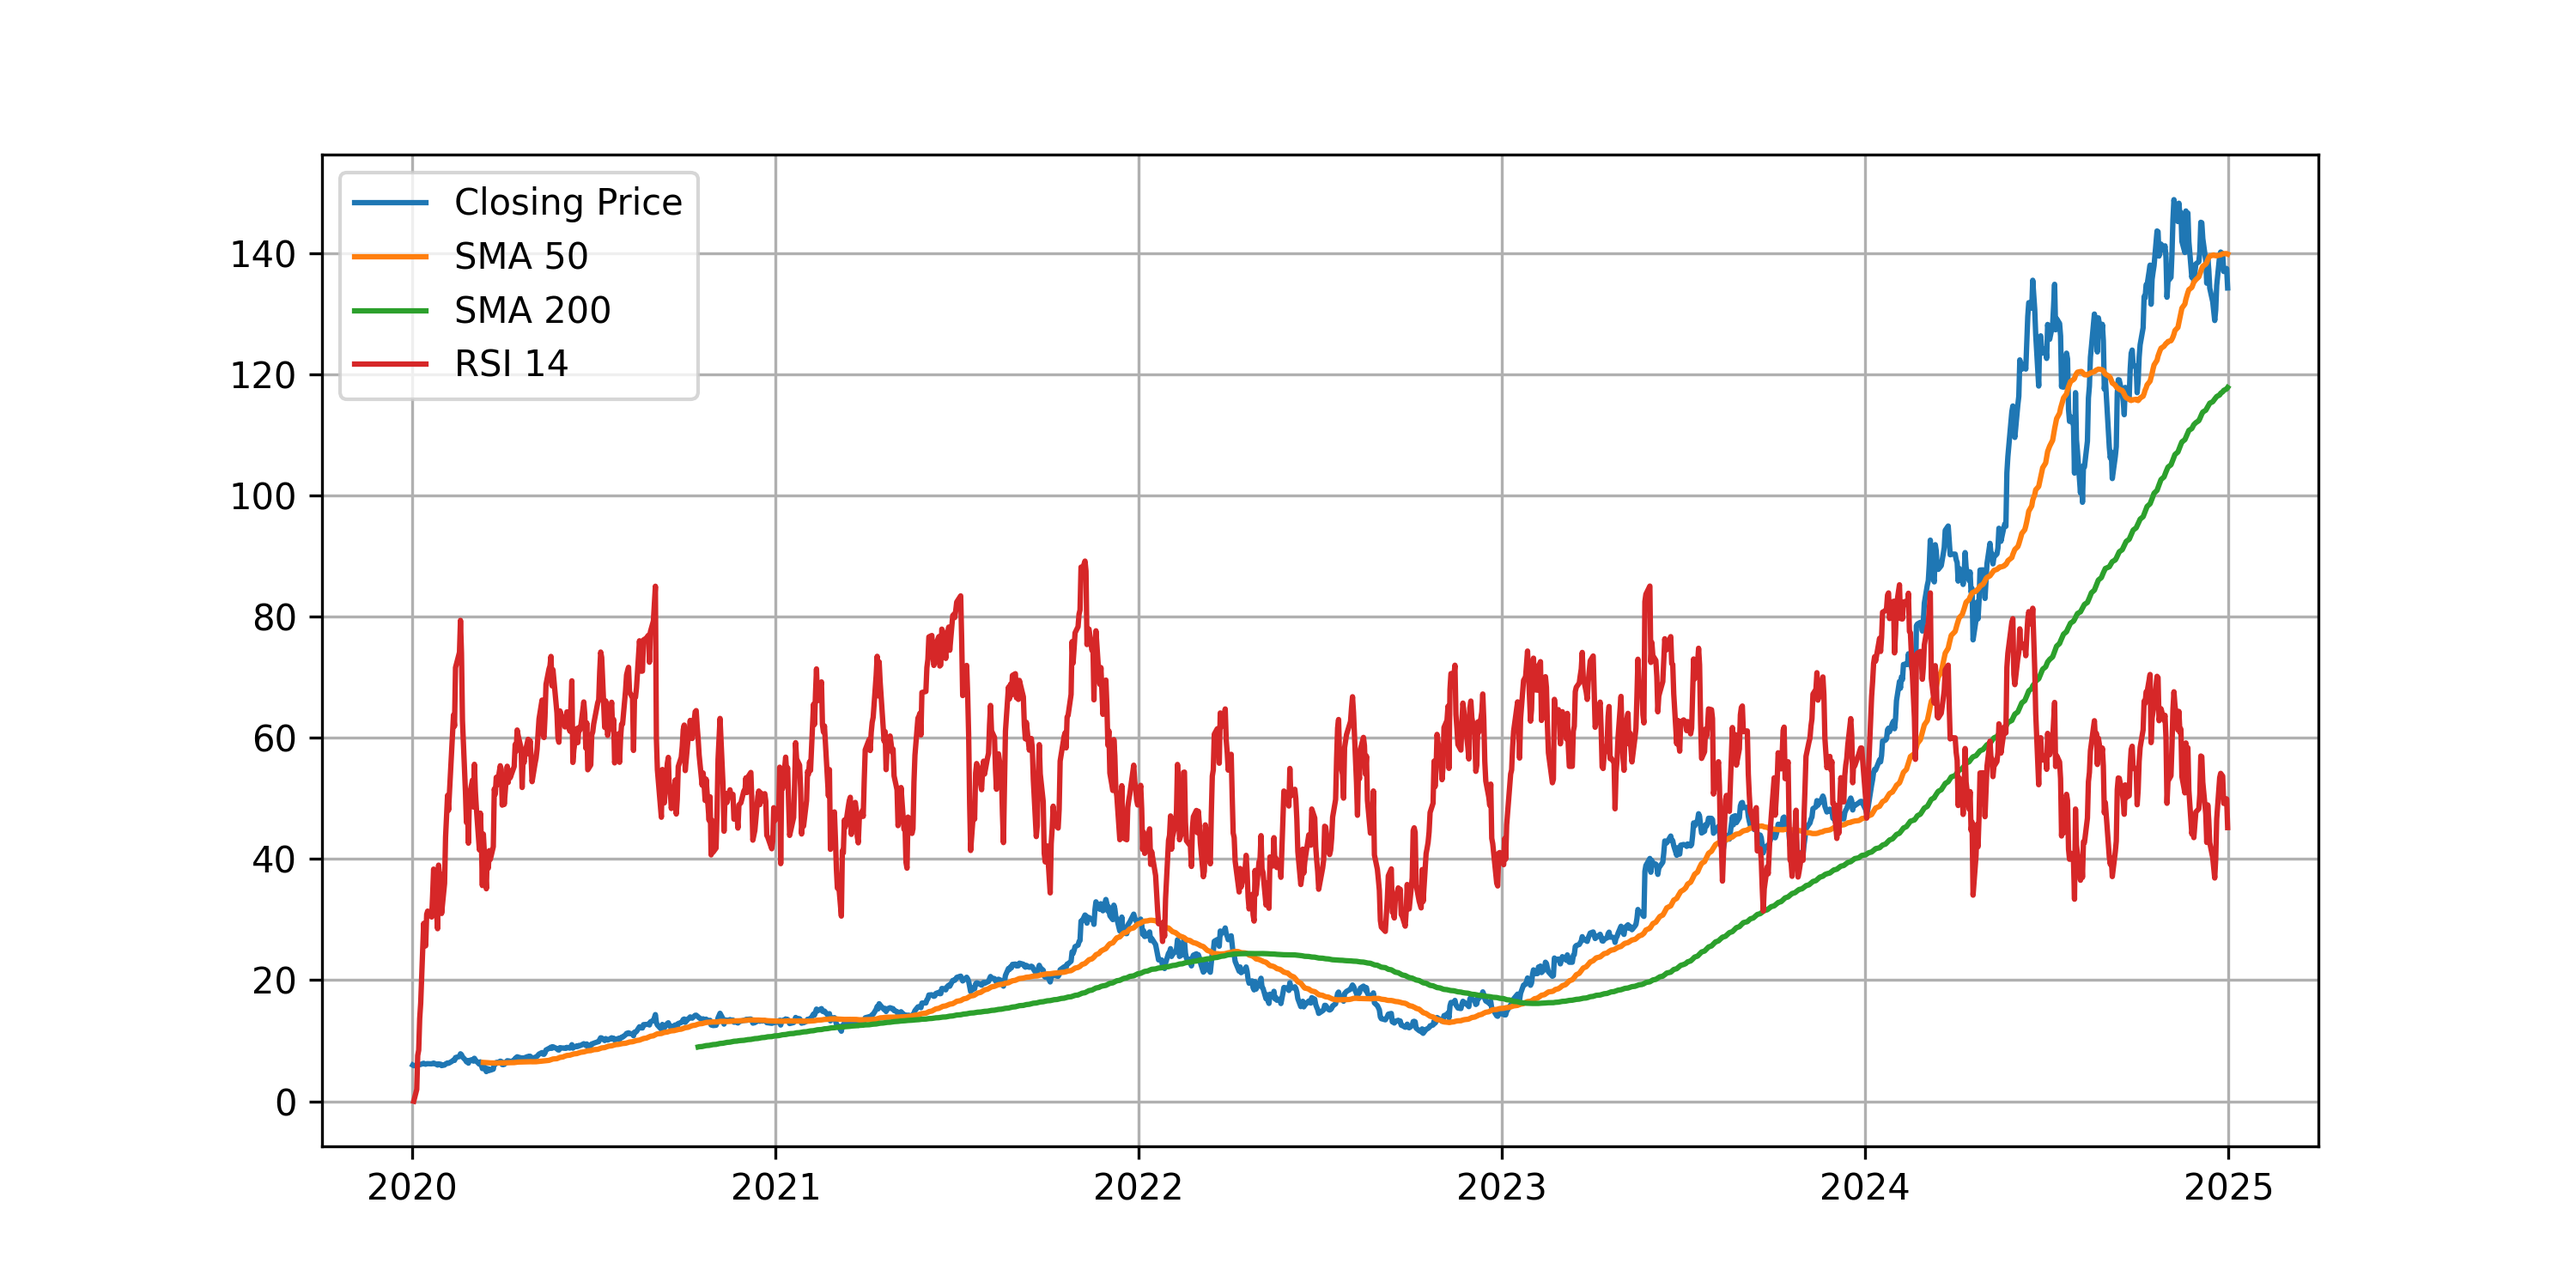
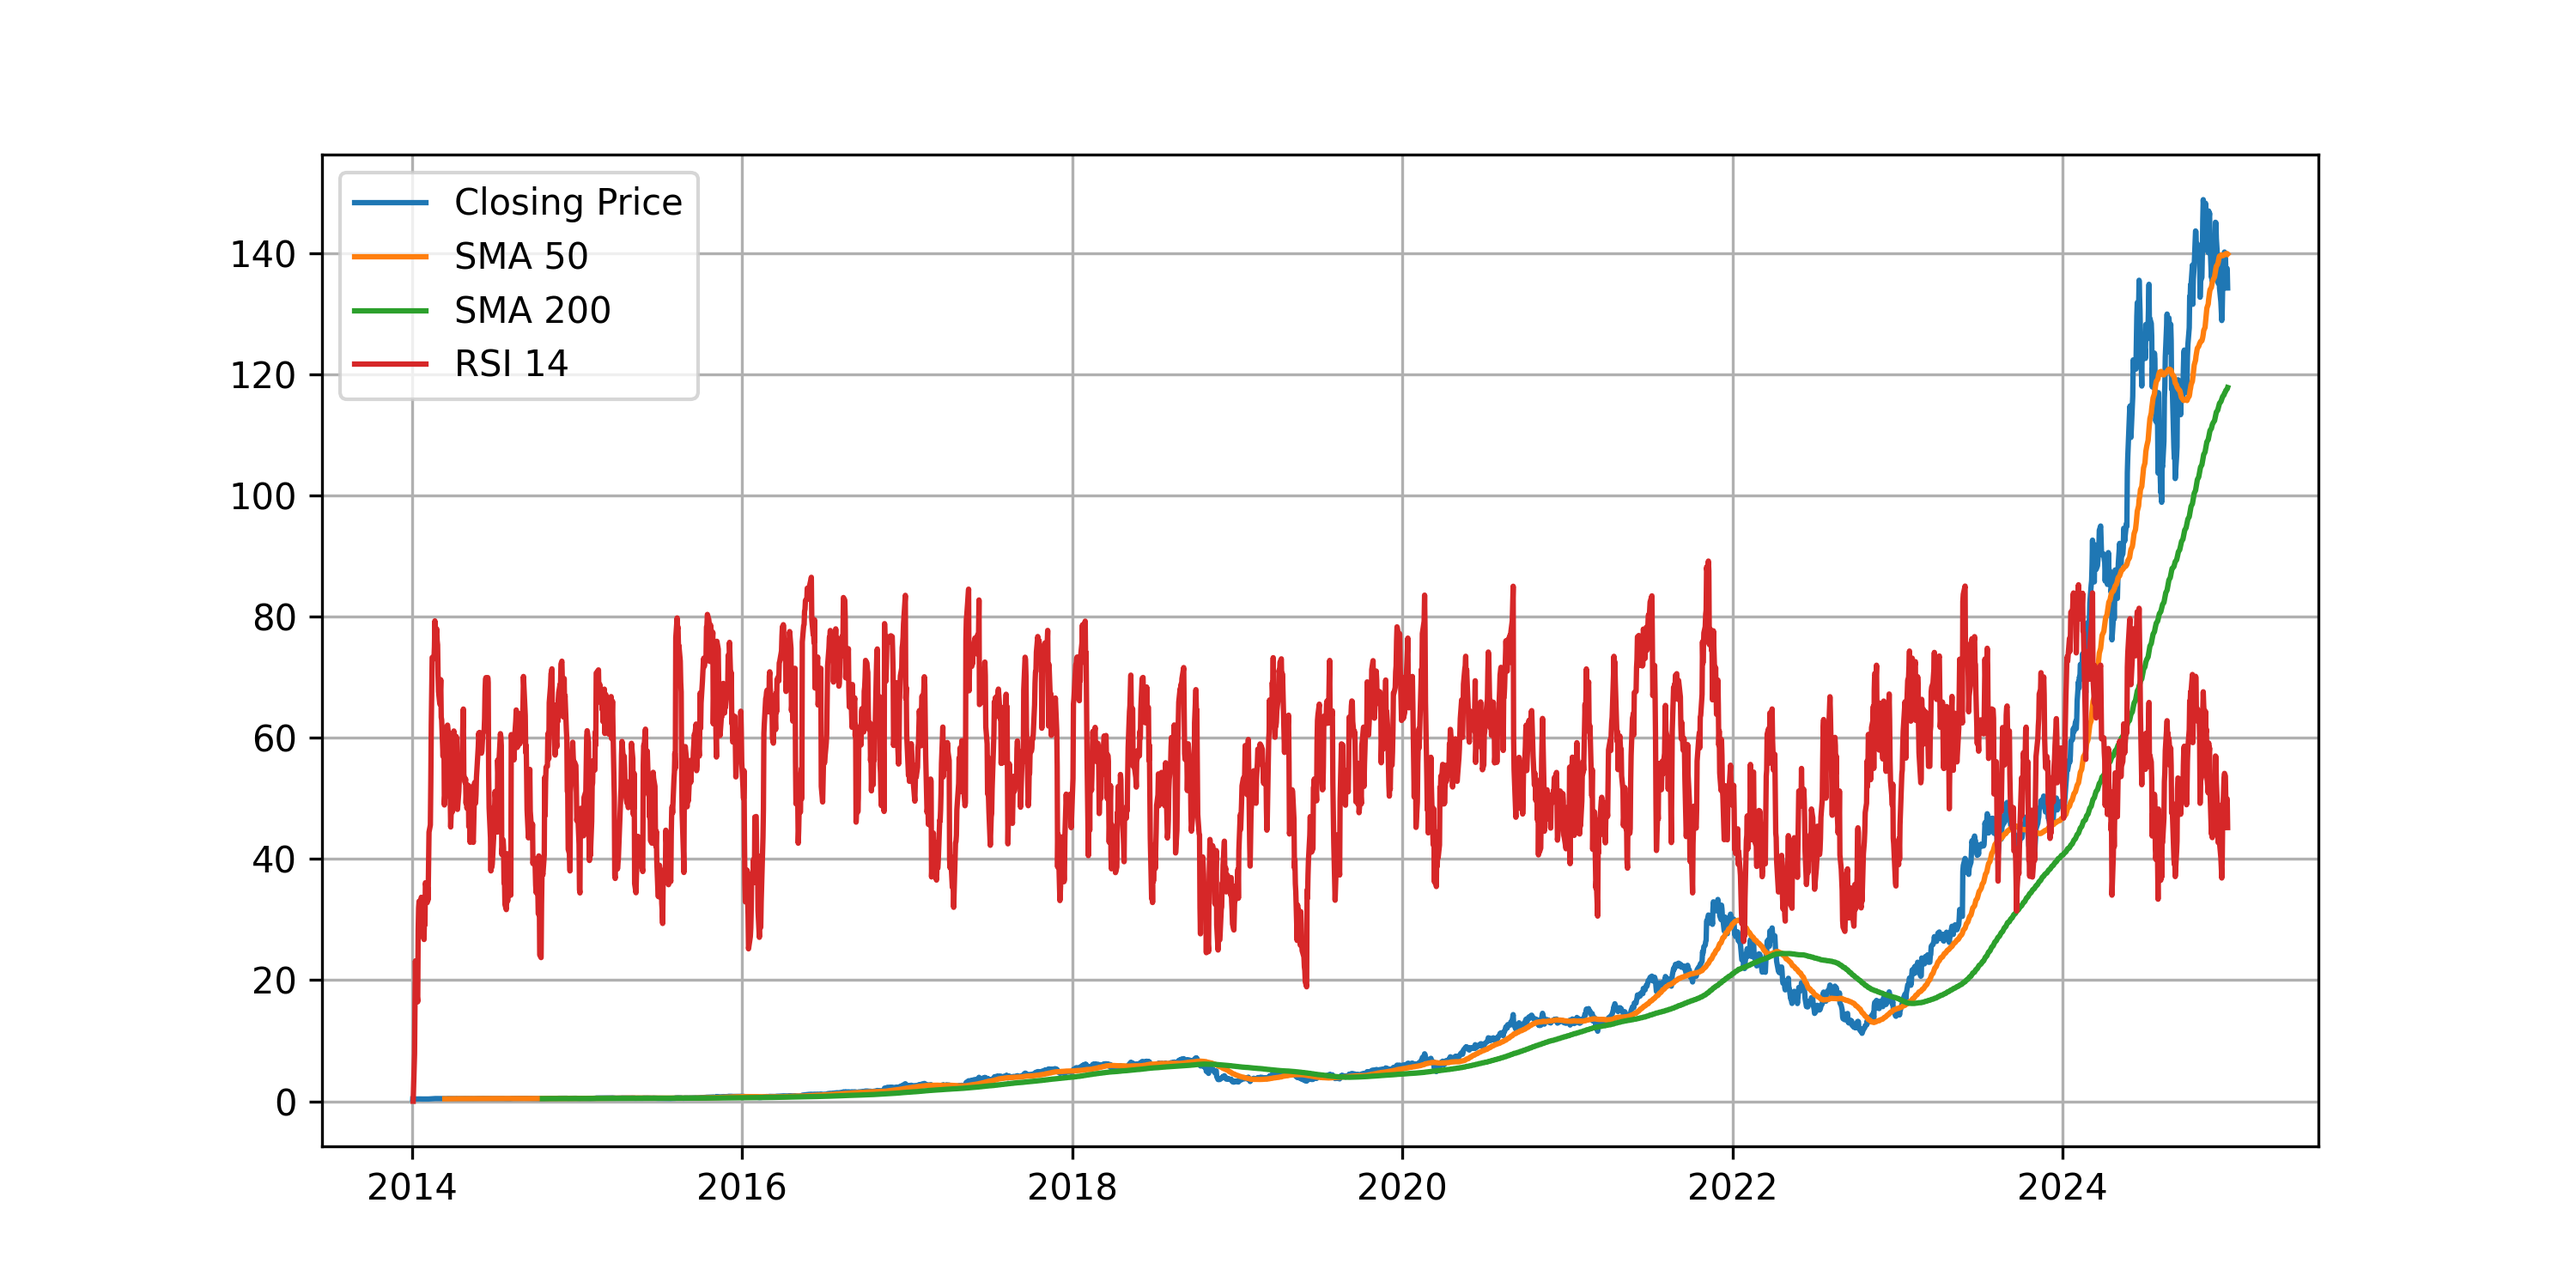
ALLIN is all you need

diff --git a/src/main.py b/src/main.py
@@ -9,7 +9,7 @@ from rule_based_strategy import SMAStrategy
 from utils import *
 
 # import stock data
-start_date = "2020-01-01"
+start_date = "2014-01-01"
 end_date = "2025-01-01"
 interval = "1d"
 tickers = ["NVDA", "AAPL", "MSFT", "GOOGL", "AMZN", "TSLA", "META", "JPM", "V", "UNH"]
@@ -32,7 +32,7 @@ df = pd.concat([df, rsi14], axis=1)
 
 # initialize strategy
 TOTAL_ASSET = 1000000
-BUYIN_UNIT = 100000
+BUYIN_PORTION = 0.2 # e.g. every buy-in uses 20% of current cash
 portfolio = Portfolio(tickers, TOTAL_ASSET)
 trade_history = []
 
@@ -52,7 +52,7 @@ for tick in df.index:
         if actions[i] > 0: # e.g. action = 0.5, buy in with 0.5*BUYIN_UNIT
             # buy in at the open price of the next tick
             buyin_price = open_price
-            buyin_money = BUYIN_UNIT * actions[i]
+            buyin_money = BUYIN_PORTION * portfolio.cash
             shares = buyin_shares(buyin_money, buyin_price)
             portfolio.update_cash(-buyin_money)
             if portfolio.cash_enough:
@@ -92,7 +92,6 @@ ax.plot(df.index, df['RSI_14', 'NVDA'], label='RSI 14')
 ax.legend()
 ax.grid()
 plt.savefig('../figures/nvda_closing_prices.png')
-
 
 # plot total portfolio value over time, compared with QQQ
 # normalize total values as percentages

diff --git a/src/utils.py b/src/utils.py
@@ -30,6 +30,8 @@ class Portfolio:
     def step(self, tick, current_prices):
         self.total_value = self.cash
         for ticker, current_price in current_prices.items():
+            # Note that there will be a bug here if current_price is NaN (unlisted stock)
+            # During training, please always ensure all stocks are listed
             self.update_returns(ticker, current_price)
             self.update_total_value(ticker, current_price)
         self.total_value_history.loc[tick, 'Total Value'] = self.total_value
